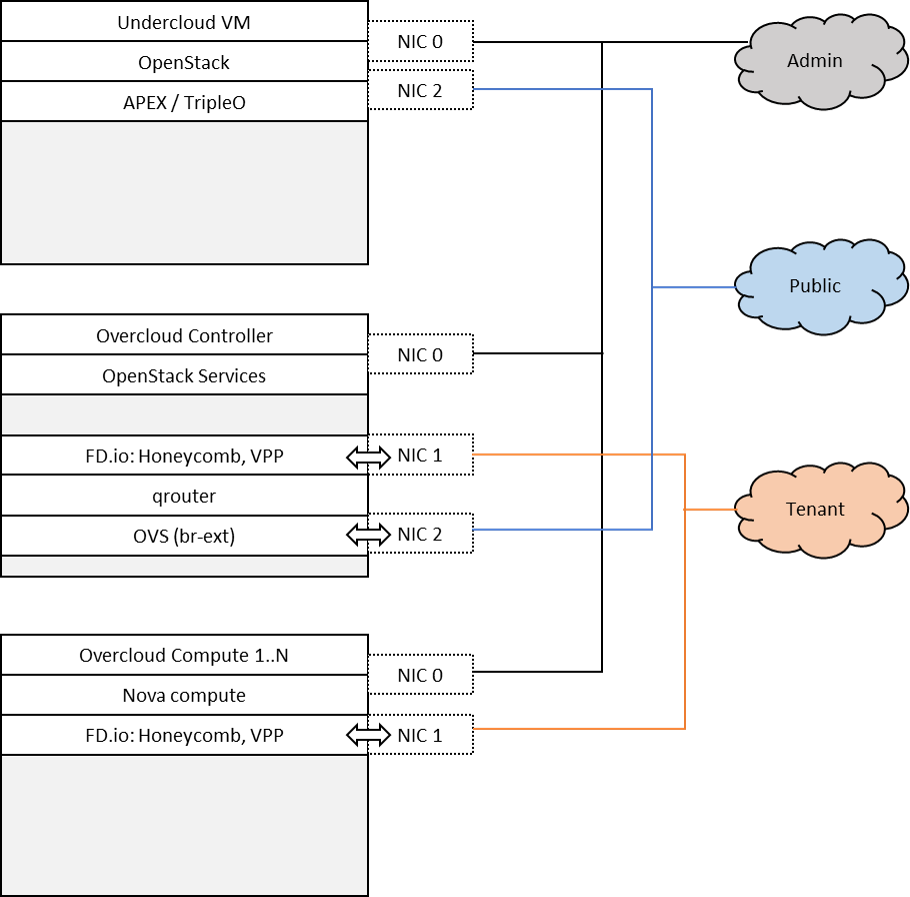
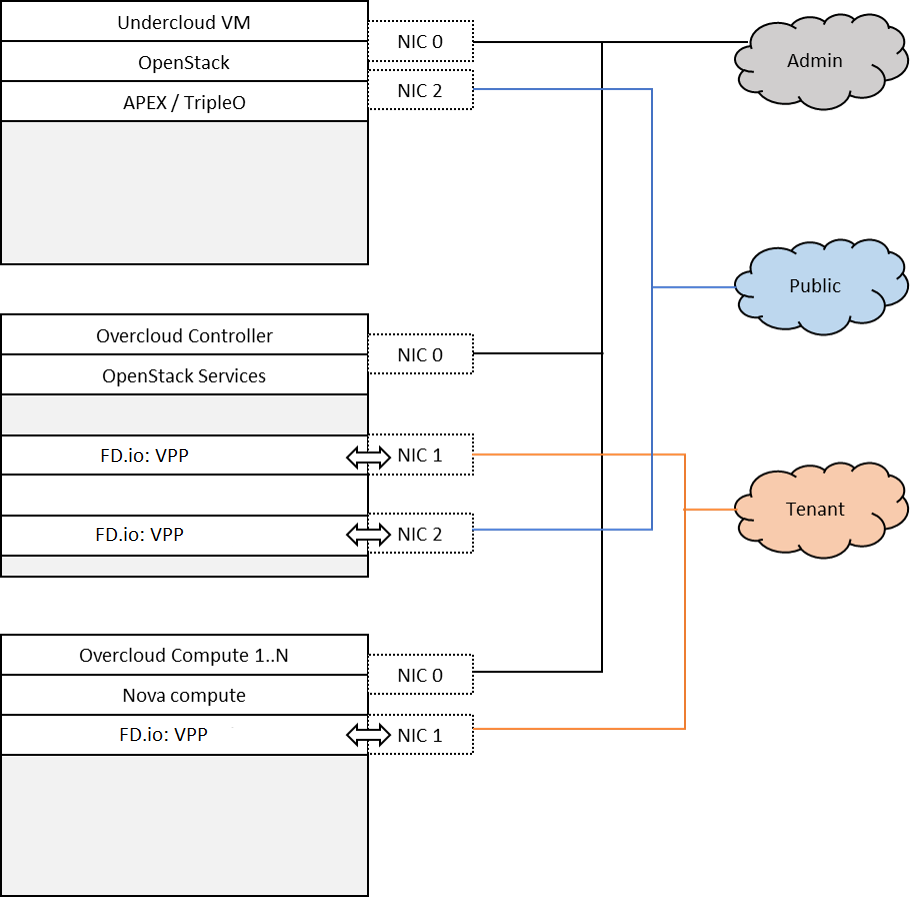
release notes and scenario doc updates for Fraser 6.1.0

Changed region(s): [[0.0923, 0.4994, 0.3077, 0.6243], [0.0923, 0.8116, 0.3077, 0.8428]]

diff --git a/docs/release/release-notes/fds-release.rst b/docs/release/release-notes/fds-release.rst
@@ -6,15 +6,15 @@
 License
 =======
 
-OPNFV Euphrates release notes for FastDataStacks
+OPNFV Fraser release notes for FastDataStacks
 
-OPNFV Euphrates release notes for FastDataStacks
+OPNFV Fraser release notes for FastDataStacks
 are licensed under a Creative Commons Attribution 4.0 International License.
 You should have received a copy of the license along with this.
 If not, see <http://creativecommons.org/licenses/by/4.0/>.
 
 ===================================================
-OPNFV Euphrates release notes for FastDataStacks
+OPNFV Fraser release notes for FastDataStacks
 ===================================================
 
 Abstract
@@ -22,7 +22,7 @@ Abstract
 
 This document describes the release notes of FastDataStacks project.
 
-OPNFV Euphrates Release
+OPNFV Fraser Release
 =======================
 
 
@@ -63,9 +63,8 @@ FastDataStacks is a great example of OPNFV’s modus operandi: create, compose,
 deploy, test, iterate.
 
 The key ingredient for all these scenarios is the data-plane forwarding and
-control infrastructure supplied by FD.io, i.e. VPP and Honeycomb along with
-OpenStack as the VM manager. In addition, OpenDaylight as a network controller
-plays a key role in many of the scenarios built by FastDataStacks.
+control infrastructure supplied by FD.io, i.e. VPP and networking-vpp along with
+OpenStack as the VM manager.
 
 Release Data
 ============
@@ -74,142 +73,90 @@ Release Data
 | **Project**                          | FastDataStacks                       |
 |                                      |                                      |
 +--------------------------------------+--------------------------------------+
-| **Repo/tag**                         | fds/opnfv-5.1.0                      |
+| **Repo/tag**                         | fds/opnfv-6.1.0                      |
 |                                      |                                      |
 +--------------------------------------+--------------------------------------+
-| **Release designation**              | 5.1.0                                |
+| **Release designation**              | 6.1.0                                |
 |                                      |                                      |
 +--------------------------------------+--------------------------------------+
-| **Release date**                     | 2017-12-15                           |
+| **Release date**                     | 2018-05-25                           |
 |                                      |                                      |
 +--------------------------------------+--------------------------------------+
-| **Purpose of the delivery**          | OPNFV Euphrates release              |
+| **Purpose of the delivery**          | OPNFV Fraser release                 |
 |                                      |                                      |
 +--------------------------------------+--------------------------------------+
 
-FastDataStacks Scenarios in Euphrates
+FastDataStacks Scenarios in Fraser
 ======================================
 
-In release Euphrates, FastDataStacks releases the following scenarios:
+In release Fraser, FastDataStacks releases the following scenarios:
 
- * `os-nosdn-fdio-noha <http://docs.opnfv.org/en/stable-euphrates/submodules/fds/docs/scenarios/os-nosdn-fdio-noha/index.html>`_:
+ * `os-nosdn-fdio-noha <http://docs.opnfv.org/en/stable-fraser/submodules/fds/docs/scenarios/os-nosdn-fdio-noha/index.html>`_:
   OpenStack (with Neutron networking-vpp mechanism driver),
   VPP
- * `os-nosdn-fdio-ha <http://docs.opnfv.org/en/stable-euphrates/submodules/fds/docs/scenarios/os-nosdn-fdio-ha/index.html>`_:
+ * `os-nosdn-fdio-ha <http://docs.opnfv.org/en/stable-fraser/submodules/fds/docs/scenarios/os-nosdn-fdio-ha/index.html>`_:
   OpenStack (in a high-availability setup, with Neutron networking-vpp mechanism driver),
   VPP
- * `os-odl-fdio-noha <http://docs.opnfv.org/en/stable-euphrates/submodules/fds/docs/scenarios/os-odl-fdio-noha/index.html>`_:
-  OpenStack,
-  OpenDaylight (for Layer 2 and Layer 3 networking control),
-  HoneyComb, VPP
- * `os-odl-fdio-ha <http://docs.opnfv.org/en/stable-euphrates/submodules/fds/docs/scenarios/os-odl-fdio-ha/index.html>`_:
-  OpenStack (in a high-availability setup),
-  OpenDaylight (for Layer 2 and Layer 3 networking control in clustered mode),
-  HoneyComb, VPP
- * `os-odl-fdio_dvr-noha <http://docs.opnfv.org/en/stable-euphrates/submodules/fds/docs/scenarios/os-odl-fdio-dvr-noha/index.html>`_:
-  OpenStack,
-  OpenDaylight (for Layer 3 networking control; there is no Layer 2 configuration),
-  HoneyComb, VPP
 
-
-All of the scenarios are installed using the APEX installer.
+Both scenarios are installed using the APEX installer.
 
 Known Issues/Restrictions
 =========================
 
-Scenario os-nosdn-fdio-noha known issues in Euphrates
+Scenario os-nosdn-fdio-noha known issues in Fraser
 -----------------------------------------------------
 
 * `FDS-156 <https://jira.opnfv.org/browse/FDS-156>`_:
   Race conditions for network-vif-plugged notification
 * `FDS-160 <https://jira.opnfv.org/browse/FDS-160>`_:
   Vlan fix on controller
-* `FDS-401 <https://jira.opnfv.org/browse/FDS-401>`_:
-  SimpleHealthCheck fails in snaps_smoke
-* `FDS-483 <https://jira.opnfv.org/browse/FDS-483>`_:
-  Live migration not supported
+* `FDS-491 <https://jira.opnfv.org/browse/FDS-491>`_:
+  neutron trunk port feature is not supported in networking-vpp
+* `FDS-492 <https://jira.opnfv.org/browse/FDS-492>`_:
+  VxLAN is not yet fully functional
+* `FDS-493 <https://jira.opnfv.org/browse/FDS-493>`_:
+  snaps_smoke has some failures around floating ip
+* `FDS-494 <https://jira.opnfv.org/browse/FDS-494>`_:
+  refstack has random failures
+* `FDS-495 <https://jira.opnfv.org/browse/FDS-495>`_:
+  tempest test cases test_network_basic_ops and test_server_basic_ops fail but
+  pass when run standalone
+* `FDS-496 <https://jira.opnfv.org/browse/FDS-496>`_:
+  NAT does not work with VPP 18.04 in some scenarios
+* `FUNCTEST-970 <https://jira.opnfv.org/browse/FUNCTEST-970>`_:
+  vping_ssh/vping_userdata fail with fraser
+* `APEX-593 <https://jira.opnfv.org/browse/APEX-593>`_:
+  cirros instance stays stuck in boot for a very long time causing functest
+  testcases to timeout
 
-Scenario os-nosdn-fdio-ha known issues in Euphrates
+Scenario os-nosdn-fdio-ha known issues in Fraser
 ---------------------------------------------------
 
 * `FDS-156 <https://jira.opnfv.org/browse/FDS-156>`_:
   Race conditions for network-vif-plugged notification
 * `FDS-160 <https://jira.opnfv.org/browse/FDS-160>`_:
   Vlan fix on controller
-* `FDS-371 <https://jira.opnfv.org/browse/FDS-371>`_:
-  Tempest_full_parallel failures due to DBDeadlock error
 * `FDS-399 <https://jira.opnfv.org/browse/FDS-399>`_:
   Neutron ports are not marked ACTIVE
 * `FDS-400 <https://jira.opnfv.org/browse/FDS-400>`_:
   Race condition between VPP ML2 agent and tempest code
-* `FDS-401 <https://jira.opnfv.org/browse/FDS-401>`_:
-  SimpleHealthCheck fails in snaps_smoke
-* `FDS-483 <https://jira.opnfv.org/browse/FDS-483>`_:
-  Live migration not supported
+* `FDS-491 <https://jira.opnfv.org/browse/FDS-491>`_:
+  neutron trunk port feature is not supported in networking-vpp
+* `FDS-492 <https://jira.opnfv.org/browse/FDS-492>`_:
+  VxLAN is not yet fully functional
+* `FDS-493 <https://jira.opnfv.org/browse/FDS-493>`_:
+  snaps_smoke has some failures around floating ip
+* `FDS-494 <https://jira.opnfv.org/browse/FDS-494>`_:
+  refstack has random failures
+* `FDS-495 <https://jira.opnfv.org/browse/FDS-495>`_:
+  tempest test cases test_network_basic_ops and test_server_basic_ops fail but
+  pass when run standalone
+* `FDS-496 <https://jira.opnfv.org/browse/FDS-496>`_:
+  NAT does not work with VPP 18.04 in some scenarios
+* `FUNCTEST-970 <https://jira.opnfv.org/browse/FUNCTEST-970>`_:
+  vping_ssh/vping_userdata fail with fraser
+* `APEX-593 <https://jira.opnfv.org/browse/APEX-593>`_:
+  cirros instance stays stuck in boot for a very long time causing functest
+  testcases to timeout
 * `APEX-468 <https://jira.opnfv.org/browse/APEX-468>`_:
   Mariadb/mysqld fails to start post a reboot
-* `APEX-469 <https://jira.opnfv.org/browse/APEX-469>`_:
-  Undercloud iptables rules are messed up post a power outage
-* `FUNCTEST-841 <https://jira.opnfv.org/browse/FUNCTEST-841>`_:
-  Cloudify_ims testcase keeps timing out
-* `ORCEHSTRA-13 <https://jira.opnfv.org/browse/ORCEHSTRA-13>`_:
-  Internal Server Error/java.lang.OutOfMemoryError: Java heap space
-
-Scenario os-odl-fdio-noha known issues in Euphrates
----------------------------------------------------
-
-* `FDS-476 <https://jira.opnfv.org/browse/FDS-476>`_:
-  Race conditions in GBP
-* `FDS-481 <https://jira.opnfv.org/browse/FDS-481>`_:
-  VPP hangs on blocking read from vhost user interface
-* `FDS-482 <https://jira.opnfv.org/browse/FDS-482>`_:
-  Live migration not supported
-* `FDS-484 <https://jira.opnfv.org/browse/FDS-484>`_:
-  snaps_smoke failures
-* `APEX-468 <https://jira.opnfv.org/browse/APEX-468>`_:
-  Mariadb/mysqld fails to start post a reboot
-* `APEX-469 <https://jira.opnfv.org/browse/APEX-469>`_:
-  Undercloud iptables rules are messed up post a power outage
-* `APEX-532 <https://jira.opnfv.org/browse/APEX-532>`_:
-  Add nat undercloud configuration for fdio scenarios
-
-Scenario os-odl-fdio-ha known issues in Euphrates
--------------------------------------------------
-
-* `FDS-476 <https://jira.opnfv.org/browse/FDS-476>`_:
-  Race conditions in GBP
-* `FDS-481 <https://jira.opnfv.org/browse/FDS-481>`_:
-  VPP hangs on blocking read from vhost user interface
-* `FDS-482 <https://jira.opnfv.org/browse/FDS-482>`_:
-  Live migration not supported
-* `FDS-484 <https://jira.opnfv.org/browse/FDS-484>`_:
-  snaps_smoke failures
-* `APEX-468 <https://jira.opnfv.org/browse/APEX-468>`_:
-  Mariadb/mysqld fails to start post a reboot
-* `APEX-469 <https://jira.opnfv.org/browse/APEX-469>`_:
-  Undercloud iptables rules are messed up post a power outage
-* `APEX-532 <https://jira.opnfv.org/browse/APEX-532>`_:
-  Add nat undercloud configuration for fdio scenarios
-
-Scenario os-odl-fdio_dvr-noha known issues in Euphrates
--------------------------------------------------
-
-* `FDS-481 <https://jira.opnfv.org/browse/FDS-481>`_:
-  VPP hangs on blocking read from vhost user interface
-* `FDS-482 <https://jira.opnfv.org/browse/FDS-482>`_:
-  Live migration not supported
-* `FDS-484 <https://jira.opnfv.org/browse/FDS-484>`_:
-  snaps_smoke failures
-* `FDS-485 <https://jira.opnfv.org/browse/FDS-485>`_:
-  LISP errors, improvements and cleanup in GBP
-* `APEX-468 <https://jira.opnfv.org/browse/APEX-468>`_:
-  Mariadb/mysqld fails to start post a reboot
-* `APEX-469 <https://jira.opnfv.org/browse/APEX-469>`_:
-  Undercloud iptables rules are messed up post a power outage
-* `APEX-532 <https://jira.opnfv.org/browse/APEX-532>`_:
-  Add nat undercloud configuration for fdio scenarios
-* `HC2VPP-249 <https://jira.fd.io/browse/HC2VPP-249>`_:
-  Route can be created even if output interface does not exist
-* `HC2VPP-250 <https://jira.fd.io/browse/HC2VPP-250>`_:
-  Cannot add EID if it's already present in operational DS
-

diff --git a/docs/scenarios/os-nosdn-fdio-ha/scenario.description.rst b/docs/scenarios/os-nosdn-fdio-ha/scenario.description.rst
@@ -15,7 +15,7 @@ are:
  - APEX (TripleO) installer (please also see APEX installer documentation)
  - Openstack (in HA configuration)
  - FD.io/VPP virtual forwarder for tenant networking
- - networking-vpp (Neutron ML2 mechanism driver for FD.io/VPP)
+ - networking-vpp (Neutron ML2 mechanism driver and L3 plugin for FD.io/VPP)
  - etcd (networking-vpp's distributed key-value store) in clustered mode
 
 Introduction
@@ -45,19 +45,17 @@ servers:
   * 2 or more Computehosts
 
 
-Tenant networking leverages FD.io/VPP. Open VSwitch (OVS) is used for all other
-connectivity, in particular the connectivity to public networking / the
-Internet (i.e. br-ext) is performed via OVS as in any standard OpenStack
-deployment. Neutron ML2 plugin is configured to use networking-vpp, the ML2-VPP
-networking mechanism driver. Networking-vpp also provides the VPP management
-agent used to setup and manage layer 2 networking for the scenario. Tenant
-networking can either leverage VLANs or plain interfaces. Layer 3 connectivity
-for a tenant network is provided centrally via qrouter on the control node. As
-in a standard OpenStack deployment, the Layer3 agent configures the qrouter and
-associated rulesets for security (security groups) and NAT (floating IPs). Public
-IP network connectivity for a tenant network is provided by interconnecting the
-VPP-based bridge domain representing the tenant network to qrouter using a tap
-interface.
+Tenant as well as public networking leverages FD.io/VPP. Neutron ML2 plugin is
+configured to use networking-vpp as the mechanism driver for VPP.
+Networking-vpp also provides the VPP management agent used to setup and manage
+layer 2 networking for the scenario. Tenant networking can either leverage
+VLANs or plain interfaces. Layer 3 connectivity for a tenant network is
+provided by the networking-vpp L3 plugin. The networking-vpp agent, which also
+acts as the L3 agent, configures the necessary artifacts in VPP for providing
+layer 3 connectivity. Public IP network connectivity for a tenant network is
+provided by interconnecting the VPP-based bridge domain representing the
+tenant network to a high-performance VPP tapv2 interface which in turn is
+bridged to a linux bridge, br-ex, on the network node.
 
 The setup is depicted below:
 
@@ -72,11 +70,10 @@ Main features of the "os-nosdn-fdio-ha" scenario:
   * Automated installation using the APEX installer
   * Fast and scalable tenant networking using FD.io/VPP as forwarder
   * Layer 2 networking using VLANs, managed and controlled
-    through the VPP ML2 plugin
-  * Layer 3 connectivitiy for tenant networks supplied centrally
-    on the Control node through standard OpenStack mechanisms.
-    All layer 3 features apply, including floating IPs (i.e. NAT)
-    and security groups
+    through the VPP ML2 plugin and the agent
+  * Layer 3 connectivitiy for tenant networks is provided through the
+    networking-vpp L3 plugin and agent on the Control/network node. All layer 3
+    features apply, including floating IPs (i.e. NAT) and security groups
   * DHCP server for tenant instances provided using the standard
     OpenStack dnsmasq server
   * OpenStack high availability
@@ -92,7 +89,7 @@ light-weight control plane agent for VPP forwarder has been created. For
 details see also https://github.com/openstack/networking-vpp.
 
 Networking-vpp provides a Neutron ML2 mechanism driver to bring the advantages
-of VPP to OpenStack deployments.It uses an etcd cluster on the control node to
+of VPP to OpenStack deployments. It uses an etcd cluster on the control node to
 keep track of the compute nodes, agent state and port bindings/unbindings.
 
 It's been written to be as simple and readable as possible, which means it's

diff --git a/docs/scenarios/os-nosdn-fdio-noha/scenario.description.rst b/docs/scenarios/os-nosdn-fdio-noha/scenario.description.rst
@@ -15,7 +15,7 @@ are:
  - APEX (TripleO) installer (please also see APEX installer documentation)
  - Openstack (in non-HA configuration)
  - FD.io/VPP virtual forwarder for tenant networking
- - networking-vpp (Neutron ML2 mechanism driver for FD.io/VPP)
+ - networking-vpp (Neutron ML2 mechanism driver and L3 plugin for FD.io/VPP)
 
 Introduction
 ============
@@ -44,21 +44,20 @@ servers:
   * 1 or more Computehosts
 
 
-Tenant networking leverages FD.io/VPP. Open VSwitch (OVS) is used for all other
-connectivity, in particular the connectivity to public networking / the
-Internet (i.e. br-ext) is performed via OVS as in any standard OpenStack
-deployment. Neutron ML2 plugin is configured to use networking-vpp, the ML2-VPP
-networking mechanism driver. Networking-vpp also provides the VPP management
-agent used to setup and manage layer 2 networking for the scenario. Tenant
-networking can either leverage VLANs or plain interfaces. Layer 3 connectivity
-for a tenant network is provided centrally via qrouter on the control node. As
-in a standard OpenStack deployment, the Layer3 agent configures the qrouter and
-associated rulesets for security (security groups) and NAT (floating IPs). Public
-IP network connectivity for a tenant network is provided by interconnecting the
-VPP-based bridge domain representing the tenant network to qrouter using a tap
-interface.
+Tenant as well as public networking leverages FD.io/VPP. Neutron ML2 plugin is
+configured to use networking-vpp as the mechanism driver for VPP.
+Networking-vpp also provides the VPP management agent used to setup and manage
+layer 2 networking for the scenario. Tenant networking can either leverage
+VLANs or plain interfaces. Layer 3 connectivity for a tenant network is
+provided by the networking-vpp L3 plugin. The networking-vpp agent, which also
+acts as the L3 agent, configures the necessary artifacts in VPP for providing
+layer 3 connectivity. Public IP network connectivity for a tenant network is
+provided by interconnecting the VPP-based bridge domain representing the
+tenant network to a high-performance VPP tapv2 interface which in turn is
+bridged to a linux bridge, br-ex, on the network node.
 
 The setup is depicted below:
+
 
 .. image:: FDS-nosdn-overview.png
 
@@ -70,11 +69,10 @@ Main features of the "os-nosdn-fdio-noha" scenario:
   * Automated installation using the APEX installer
   * Fast and scalable tenant networking using FD.io/VPP as forwarder
   * Layer 2 networking using VLANs, managed and controlled
-    through the VPP ML2 plugin
-  * Layer 3 connectivitiy for tenant networks supplied centrally
-    on the Control node through standard OpenStack mechanisms.
-    All layer 3 features apply, including floating IPs (i.e. NAT)
-    and security groups
+    through the VPP ML2 plugin and the agent
+  * Layer 3 connectivitiy for tenant networks is provided through the
+    networking-vpp L3 plugin and agent on the Control/network node. All layer 3
+    features apply, including floating IPs (i.e. NAT) and security groups
   * DHCP server for tenant instances provided using the standard
     OpenStack dnsmasq server
 
@@ -88,7 +86,7 @@ light-weight control plane agent for VPP forwarder has been created. For
 details see also https://github.com/openstack/networking-vpp.
 
 Networking-vpp provides a Neutron ML2 mechanism driver to bring the advantages
-of VPP to OpenStack deployments.It uses an etcd cluster on the control node to
+of VPP to OpenStack deployments. It uses an etcd cluster on the control node to
 keep track of the compute nodes, agent state and port bindings/unbindings.
 
 It's been written to be as simple and readable as possible, which means it's
